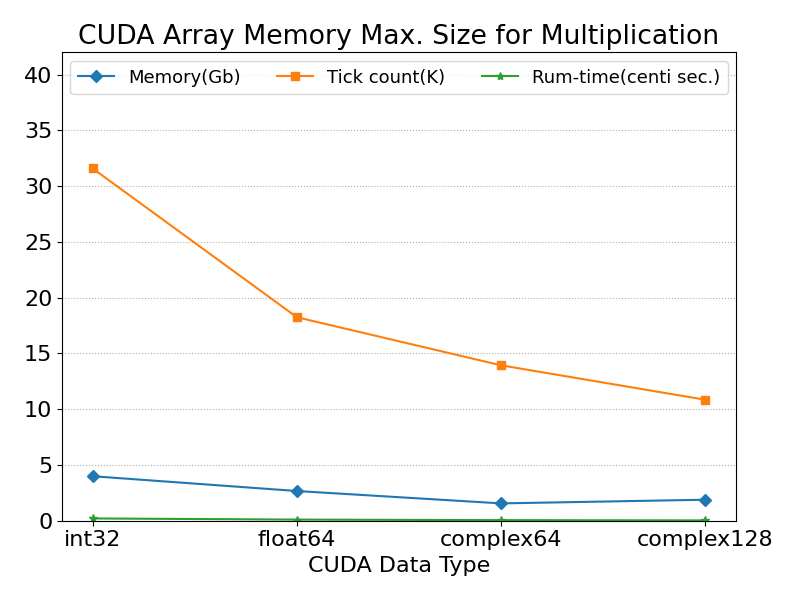
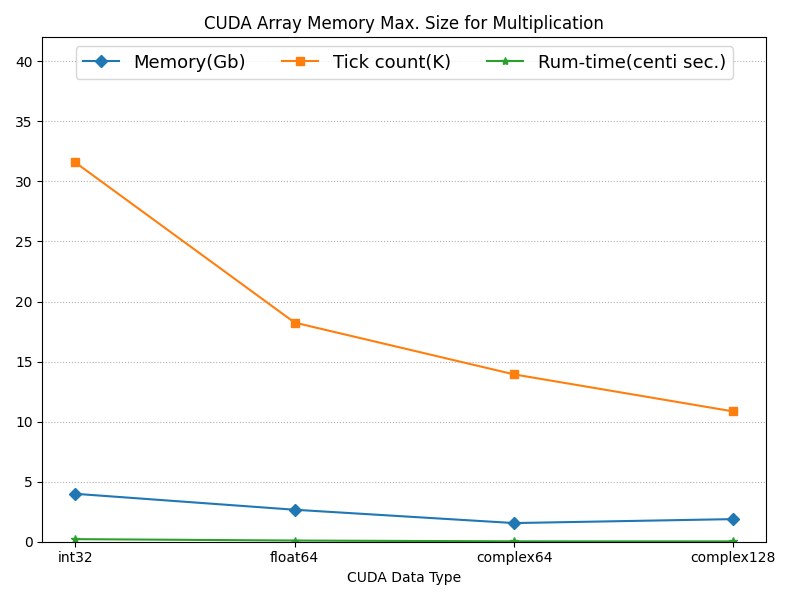
**

diff --git a/ATest_04_MemoryAlloc.py b/ATest_04_MemoryAlloc.py
@@ -1,4 +1,4 @@
-import math, psutil
+import os, math, psutil
 from time import *
 from time import perf_counter
 from matplotlib import pyplot as plt
@@ -15,7 +15,7 @@ def get_free_mem_bytes( use_gpu, device = 0, verbose = 0 ) :
 
         verbose and print( f"GPU mem : total = {total_mem:_}, free = {free_mem:_}, used = {used_mem:_} " )
 
-        return free_mem, total_mem
+        return free_mem, total_mem, free_mem/total_mem
     else :
         import psutil
         ps_mem = psutil.virtual_memory() ; 
@@ -24,7 +24,7 @@ def get_free_mem_bytes( use_gpu, device = 0, verbose = 0 ) :
 
         verbose and print( "PSU = ", psutil.virtual_memory())
         verbose and print( f"PSU mem : total = {total_mem:_}, free = {free_mem:_}, used = {used_mem:_} " )
-        return free_mem, total_mem
+        return free_mem, total_mem, free_mem/total_mem
     pass
 pass
 
@@ -66,11 +66,10 @@ def test_array_memory_alloc( use_gpu , operation="", debug=0, verbose=0) :
         
         debug and print( type_detail_str, flush=1 )
 
-        free_mem_bytes, total_mem_bytes = get_free_mem_bytes( use_gpu, device=0, verbose=0 )
-        free_ratio = free_mem_bytes / total_mem_bytes * 100
+        free_mem_bytes, total_mem_bytes, free_ratio = get_free_mem_bytes( use_gpu, device=0, verbose=0 ) 
 
         free_mem_bytes_prev = free_mem_bytes
-        print( f"free_mem_bytes = {free_mem_bytes:_} bytes {free_ratio:.0f}%", flush=1 )
+        print( f"free_mem_bytes = {free_mem_bytes:_} bytes {free_ratio*100:.0f}%", flush=1 )
 
         tick_count = math.sqrt( free_mem_bytes/data_type_size*0.95 )
         tick_count = int( tick_count )
@@ -132,9 +131,8 @@ def test_array_memory_alloc( use_gpu , operation="", debug=0, verbose=0) :
             test = torch.zeros( [1000], dtype=data_type, device=device )
         pass
 
-        free_mem_bytes, total_mem_bytes = get_free_mem_bytes( use_gpu, device=0, verbose=0 )
-        free_ratio = free_mem_bytes / total_mem_bytes * 100
-        print( f"free_mem_bytes after gc= {free_mem_bytes:_} bytes {free_ratio:.0f}%" , flush=1)
+        free_mem_bytes, total_mem_bytes,free_ratio = get_free_mem_bytes( use_gpu, device=0, verbose=0 )
+        print( f"free_mem_bytes after gc= {free_mem_bytes:_} bytes {free_ratio*100:.0f}%" , flush=1)
     
         if debug:   
             error and print( error, flush=1 )
@@ -203,10 +201,13 @@ def test_array_memory_alloc( use_gpu , operation="", debug=0, verbose=0) :
     chart.legend(loc="upper center", ncol=3, fontsize=13 )
     
     plt.tight_layout()
-    plt.savefig( f"./result/memory_allocation_{use_gpu}_{len(operation)}.png" )
+    src_dir = os.path.dirname( os.path.abspath(__file__) )
+    result_chart_file = f"{src_dir}/result/memory_allocation_{use_gpu}_{len(operation)}.png"
+    print( f"Result chart file = {result_chart_file}" )
+    plt.savefig( result_chart_file )
     plt.show(); 
 
-    print( "Done." )
+    print( "\nDone." )
 pass # -- test_array_memory
 
 if __name__ == "__main__":

diff --git a/AACode.py b/AACode.py
@@ -1,7 +1,8 @@
 # 메모리 현황 구하기
-
 import os
- 
+
+print( "source dirname = ", os.path.dirname( os.path.abspath(__file__) ) )
+
 total_mem, used_mem, free_mem = map( int, 
     os.popen('free -b').readlines()[-1].split()[1:] )
 
